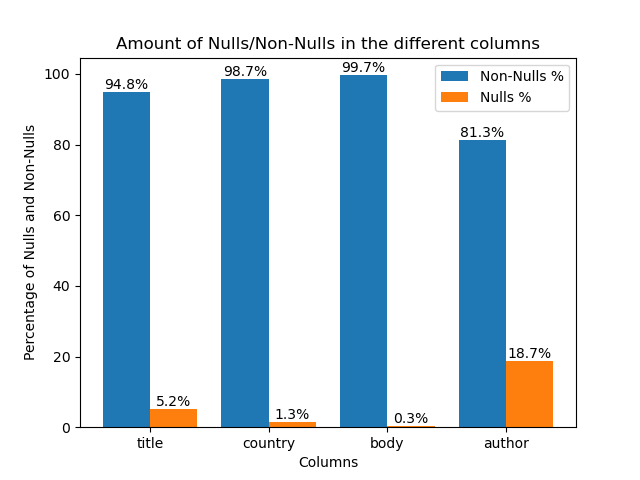
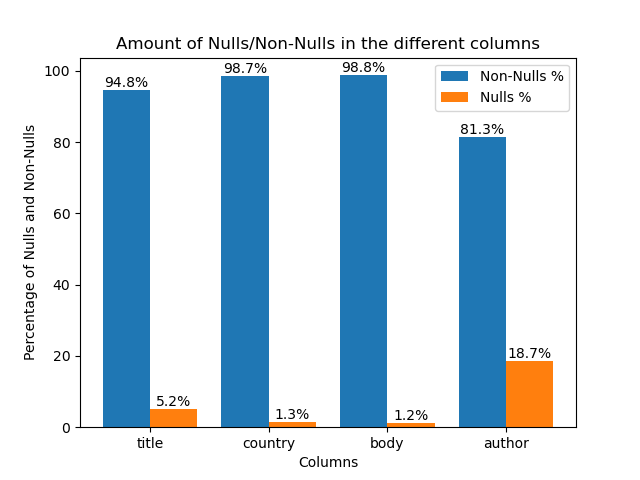
Keyword extract incomplete

diff --git a/src/data_analysis/data_quality.py b/src/data_analysis/data_quality.py
@@ -1,4 +1,3 @@
-from calendar import c
 import pandas as pd
 import numpy as np
 import matplotlib.pyplot as plt
@@ -20,6 +19,8 @@ def generate_null_bar_chart():
 
     title_col_non_nulls = round(df['title'].count() * 100 / len(df), 2)
     country_col_non_nulls = round(df['country'].count() * 100 / len(df), 2)
+    df['text'] = df[df['text'].notna()]['text'].apply(lambda x: x.strip())
+    df['text'] = df[df['text'] != ""]['text']
     body_col_non_nulls = round(df['text'].count() * 100 / len(df), 2)
     author_col_non_nulls = round(df['author'].count() * 100 / len(df), 2)
 

diff --git a/src/data_analysis/data_exploration.py b/src/data_analysis/data_exploration.py
@@ -1,0 +1,11 @@
+import pandas as pd
+import numpy as np
+import matplotlib.pyplot as plt
+
+df = pd.read_csv("./data/fake_clean.csv")
+
+country_distribution = pd.DataFrame({'lab':df['language'].unique(), 'val':[10, 30, 20]})
+
+fig = plt.figure(figsize=(10, 5))
+plt.bar(df['language'].unique(), df["language"].value_counts())
+plt.show("./data/plots/avg_spam_per_country.jpg")

diff --git a/src/text_analysis/keyword_extraction.py b/src/text_analysis/keyword_extraction.py
@@ -1,0 +1,14 @@
+# Using multi_rake
+
+from multi_rake import Rake
+import pandas as pd
+
+fake_data = pd.read_csv("./data/fake_clean.csv")
+rake = Rake(max_words=1)
+body = ', '.join(fake_data['body'])
+body = ''.join(x for x in body if (x.isalpha() or x == ' '))
+keywords = rake.apply(body)
+
+
+
+print(keywords[:10])

diff --git a/TODO.md b/TODO.md
@@ -3,3 +3,6 @@
 * Characterization (Data quality before processing (Diogo G), relations between data (Diogo F), text analysis(Tiago))
 
 * Slides
+
+* Max - min published, distribution of websites and languages
+* body nulls + ""
